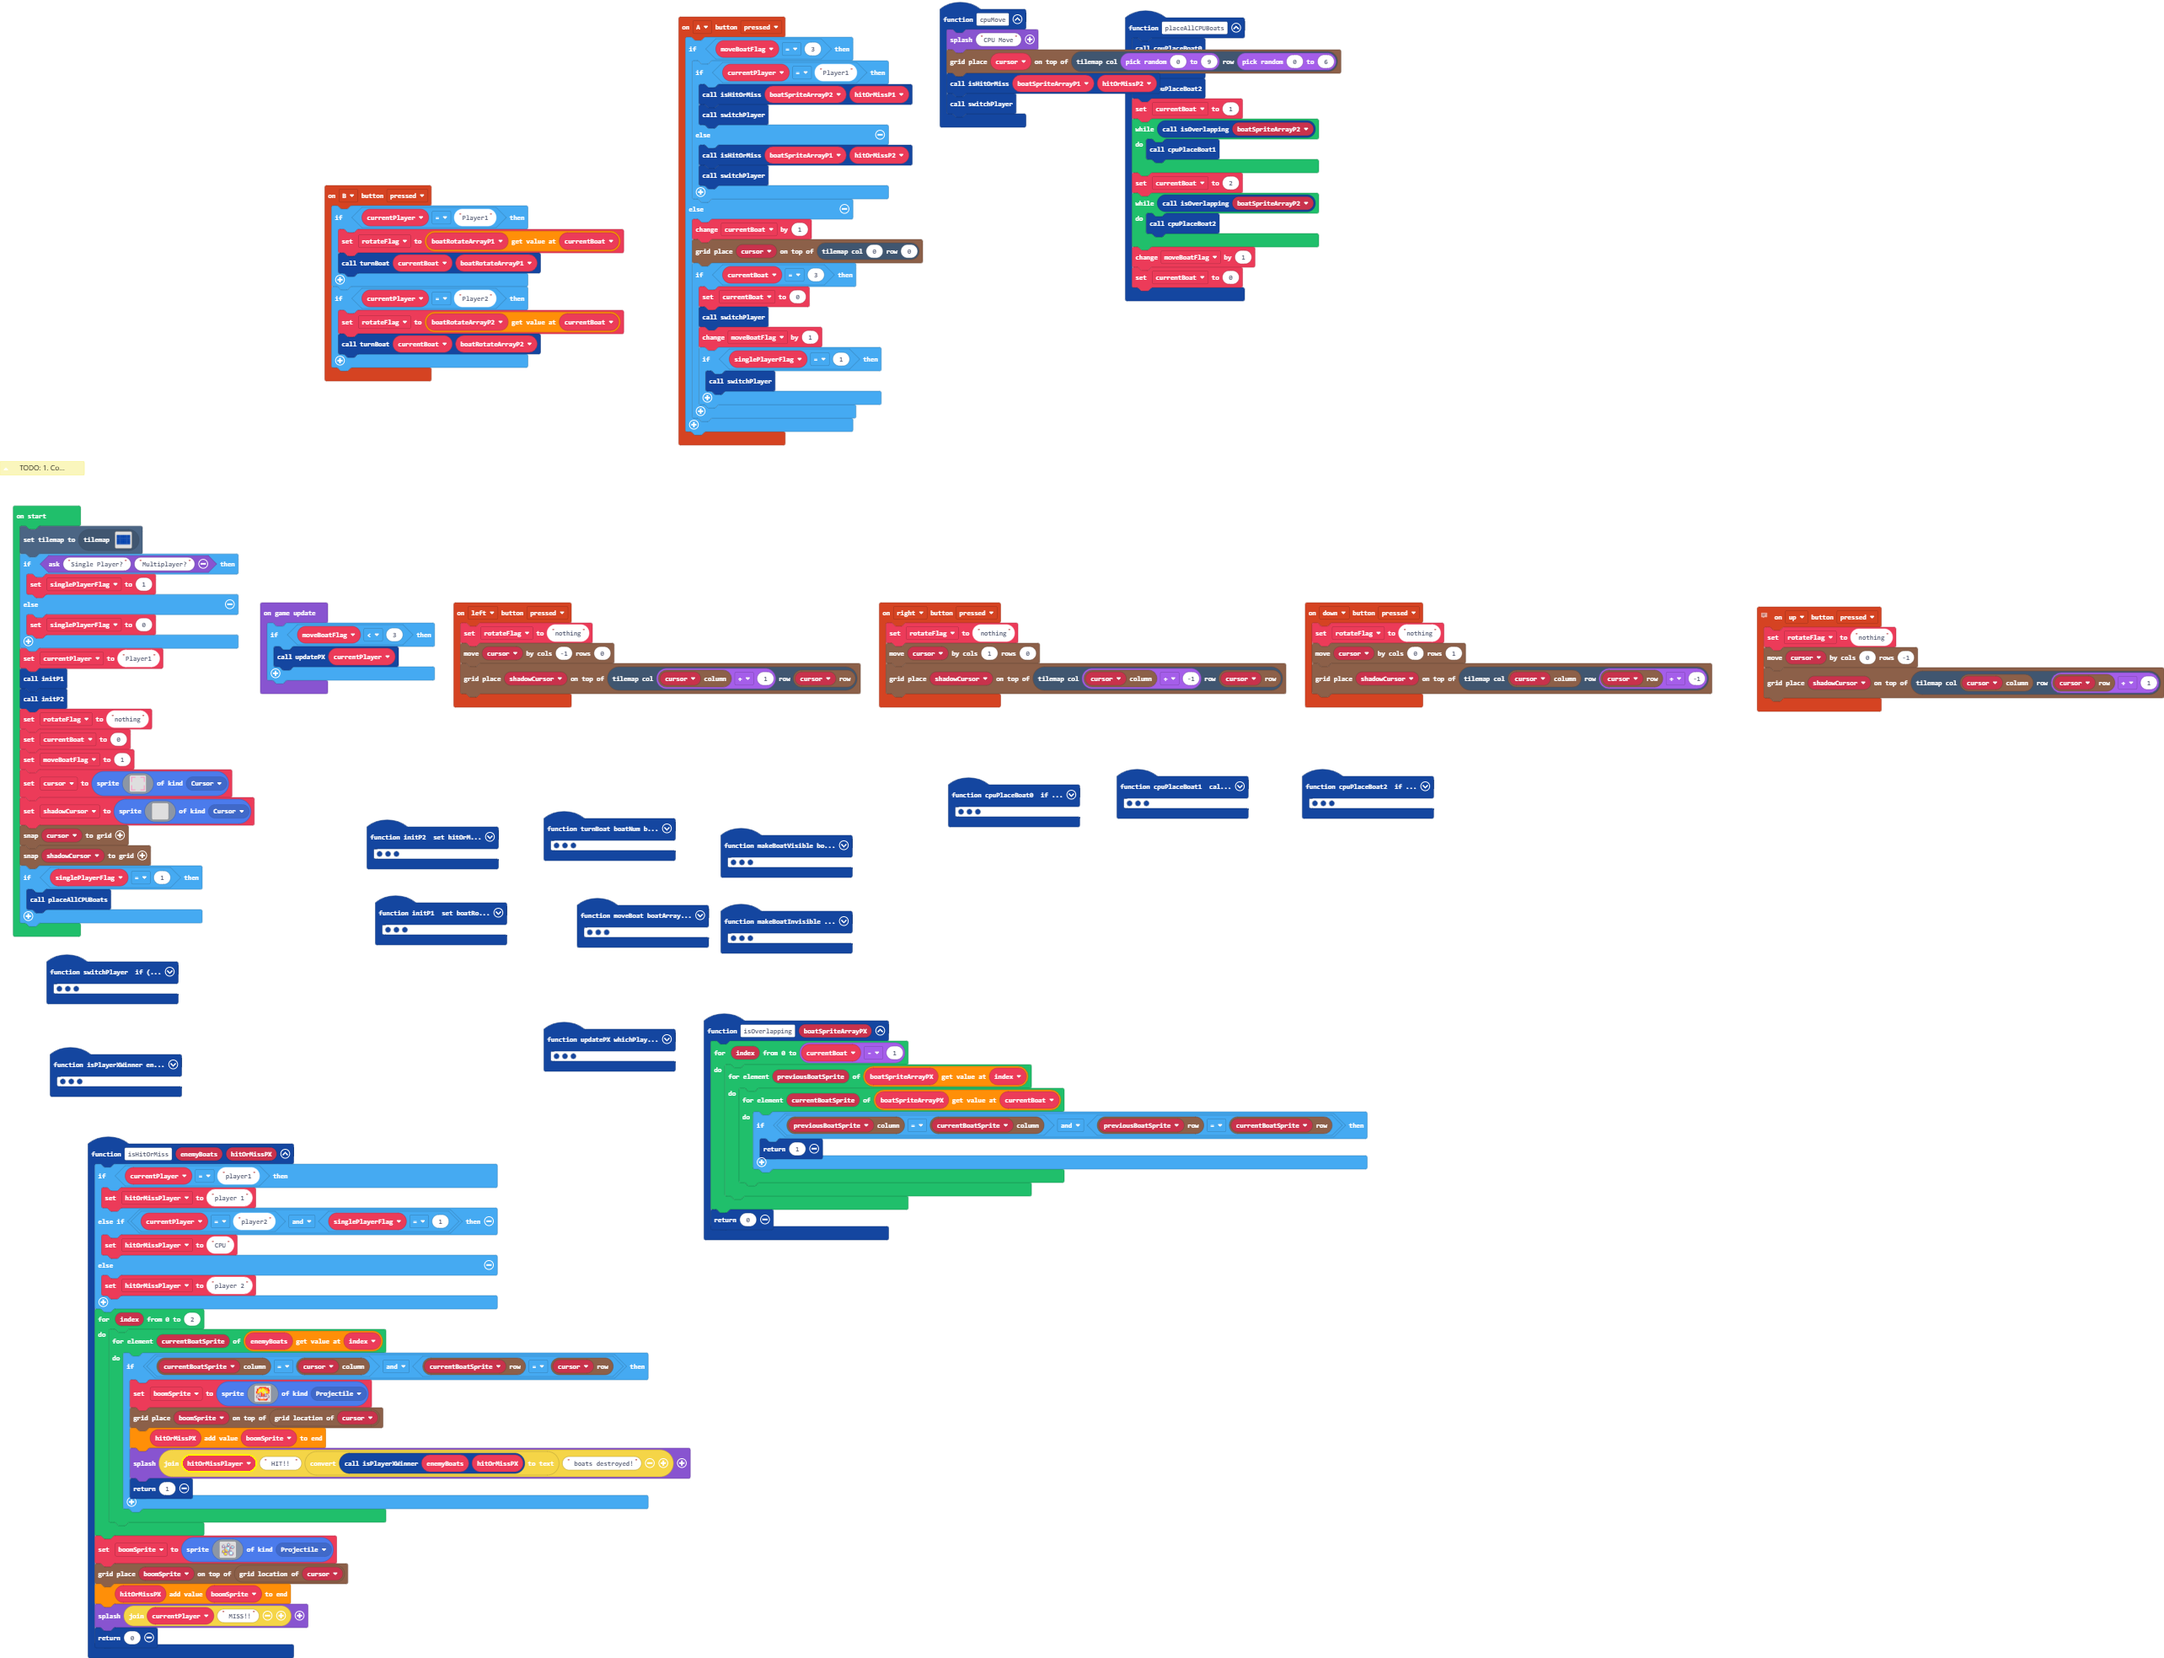
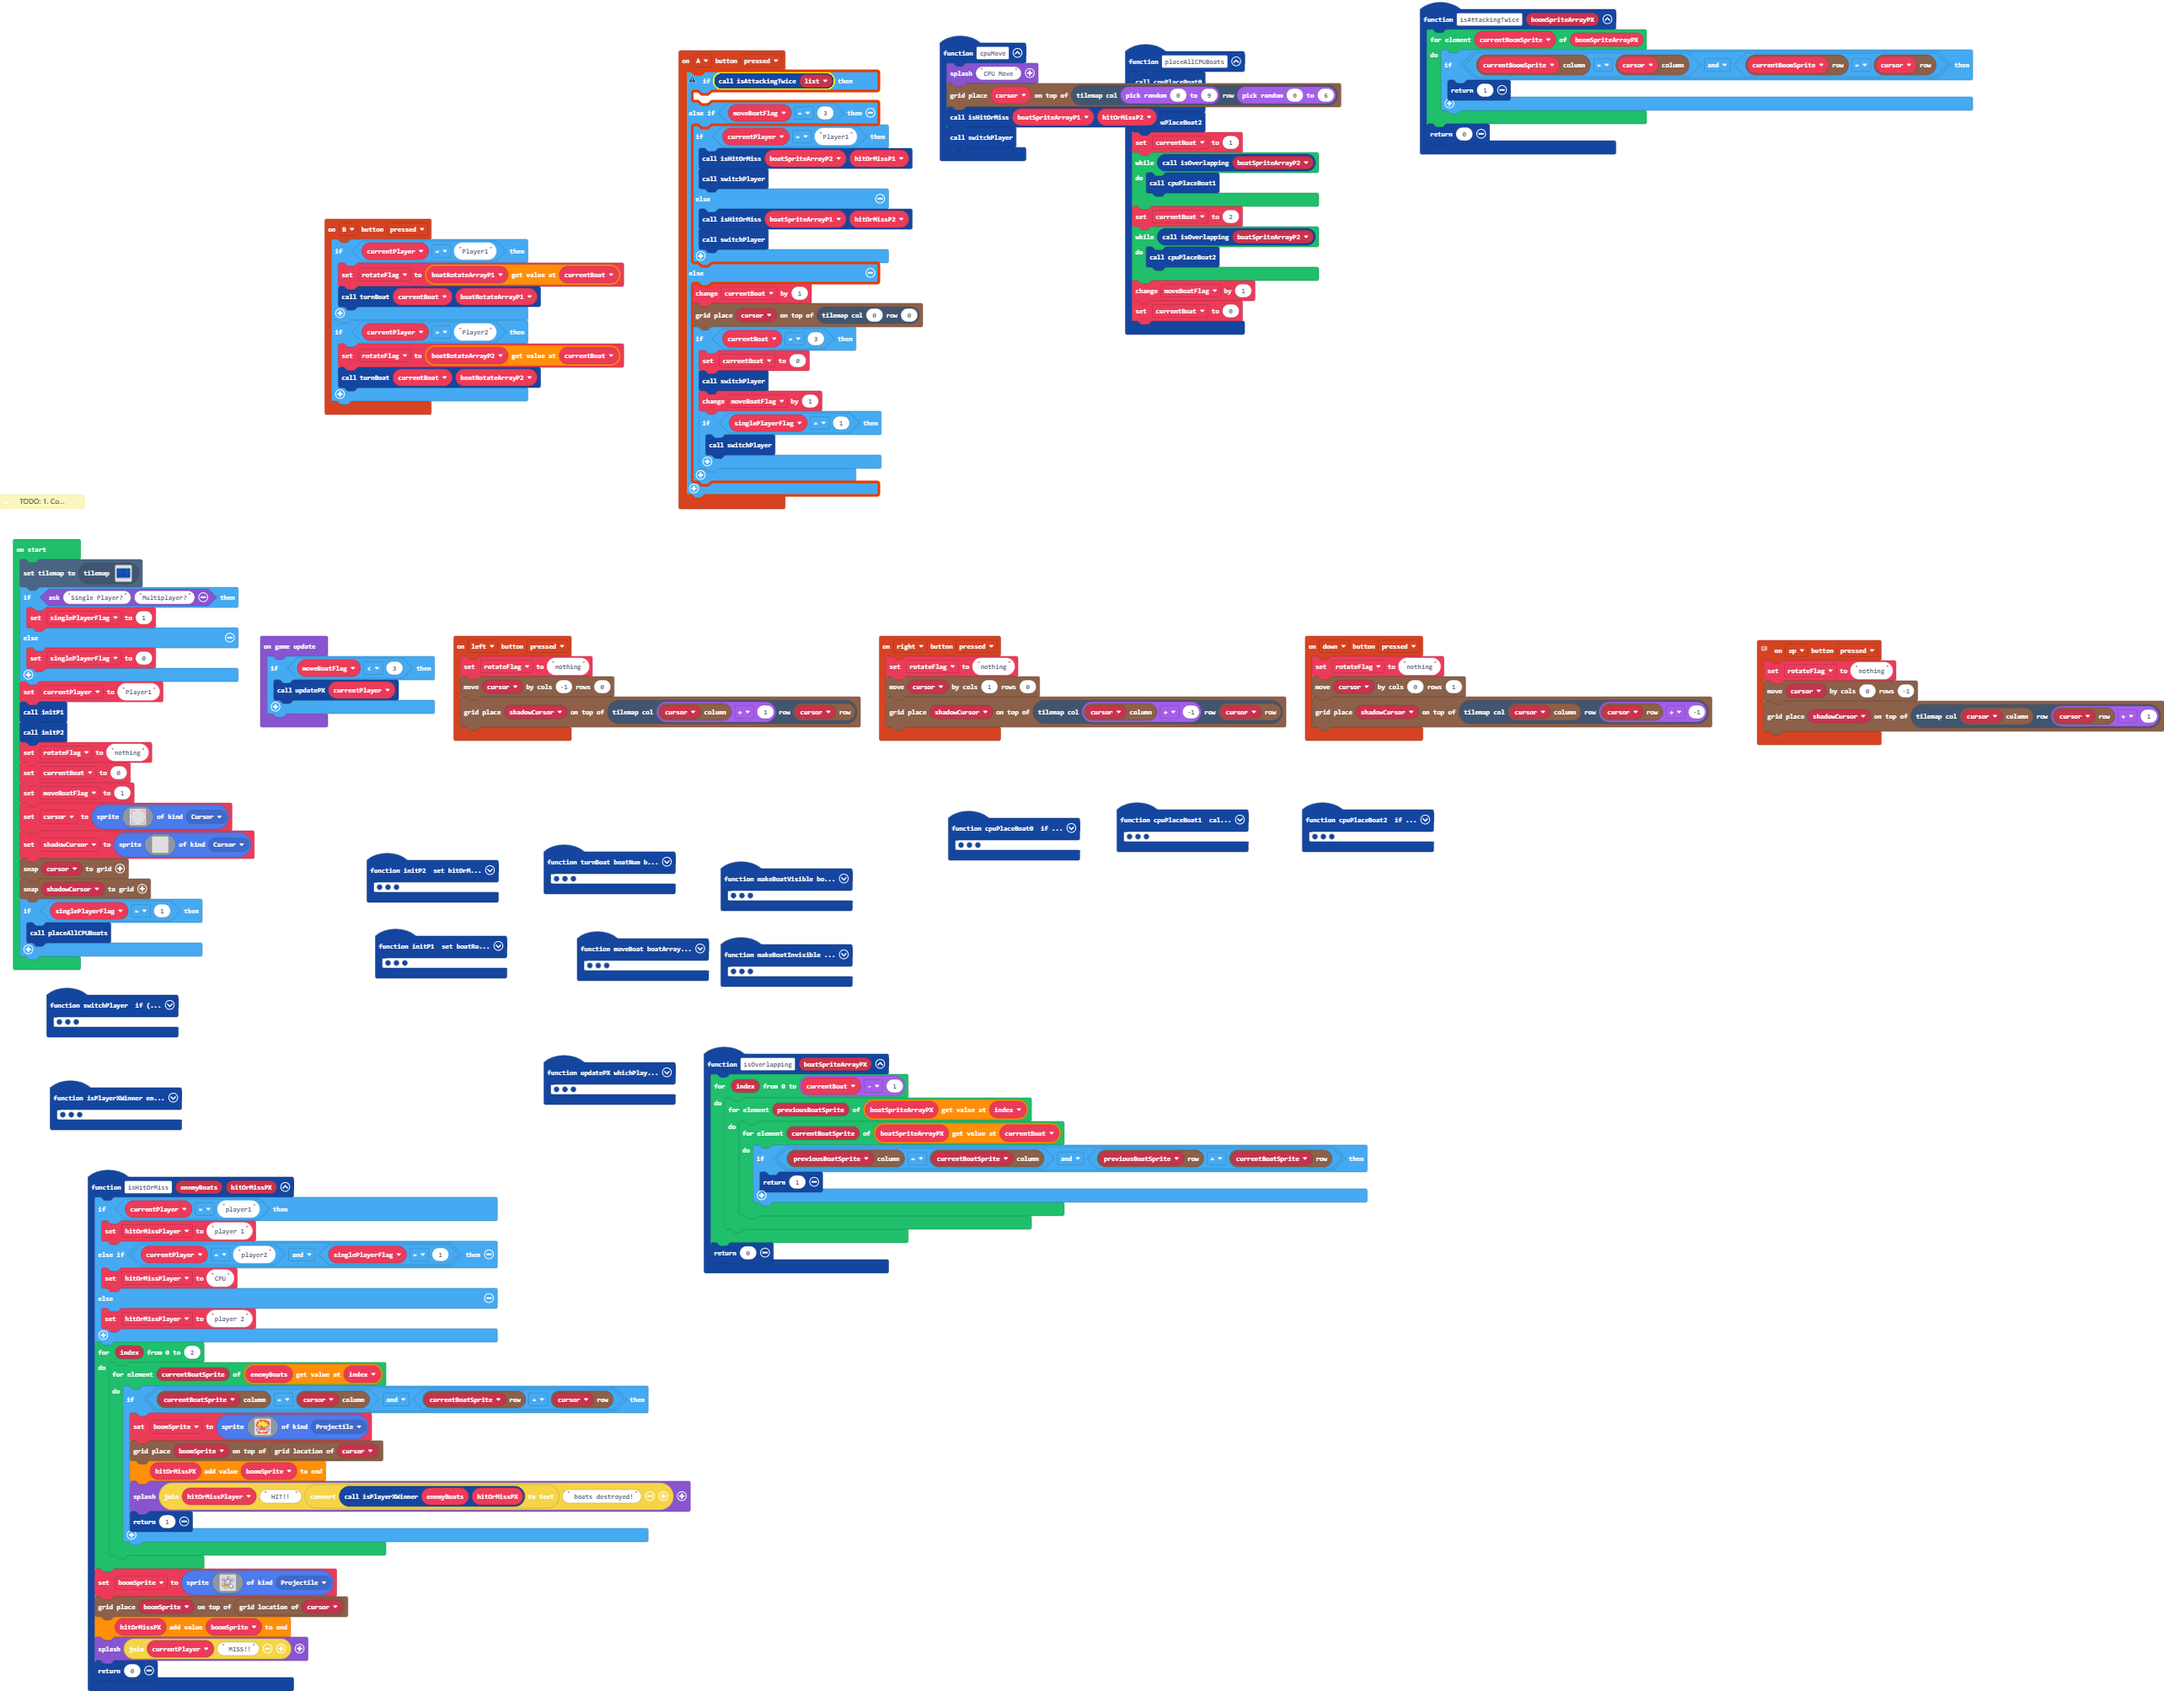
working on is attacking twice

diff --git a/main.ts b/main.ts
@@ -90,7 +90,10 @@ function isPlayerXWinner (enemyBoats: Sprite[][], hitOrMissPX: Sprite[]) {
     return killCount
 }
 controller.A.onEvent(ControllerButtonEvent.Pressed, function () {
-    if (moveBoatFlag == 3) {
+    let list: number[] = []
+    if (isAttackingTwice(list)) {
+    	
+    } else if (moveBoatFlag == 3) {
         if (currentPlayer == "Player1") {
             isHitOrMiss(boatSpriteArrayP2, hitOrMissP1)
             switchPlayer()
@@ -442,6 +445,14 @@ function cpuPlaceBoat1 () {
         grid.place(boatSpriteArrayP2[1][1], grid.add(grid.getLocation(cursor), 0, 1))
         grid.place(boatSpriteArrayP2[1][2], grid.add(grid.getLocation(cursor), 0, 2))
     }
+}
+function isAttackingTwice (boomSpriteArrayPX: Sprite[]) {
+    for (let currentBoomSprite of boomSpriteArrayPX) {
+        if (grid.spriteCol(currentBoomSprite) == grid.spriteCol(cursor) && grid.spriteRow(currentBoomSprite) == grid.spriteRow(cursor)) {
+            return 1
+        }
+    }
+    return 0
 }
 function initP2 () {
     hitOrMissP2 = [sprites.create(img`
